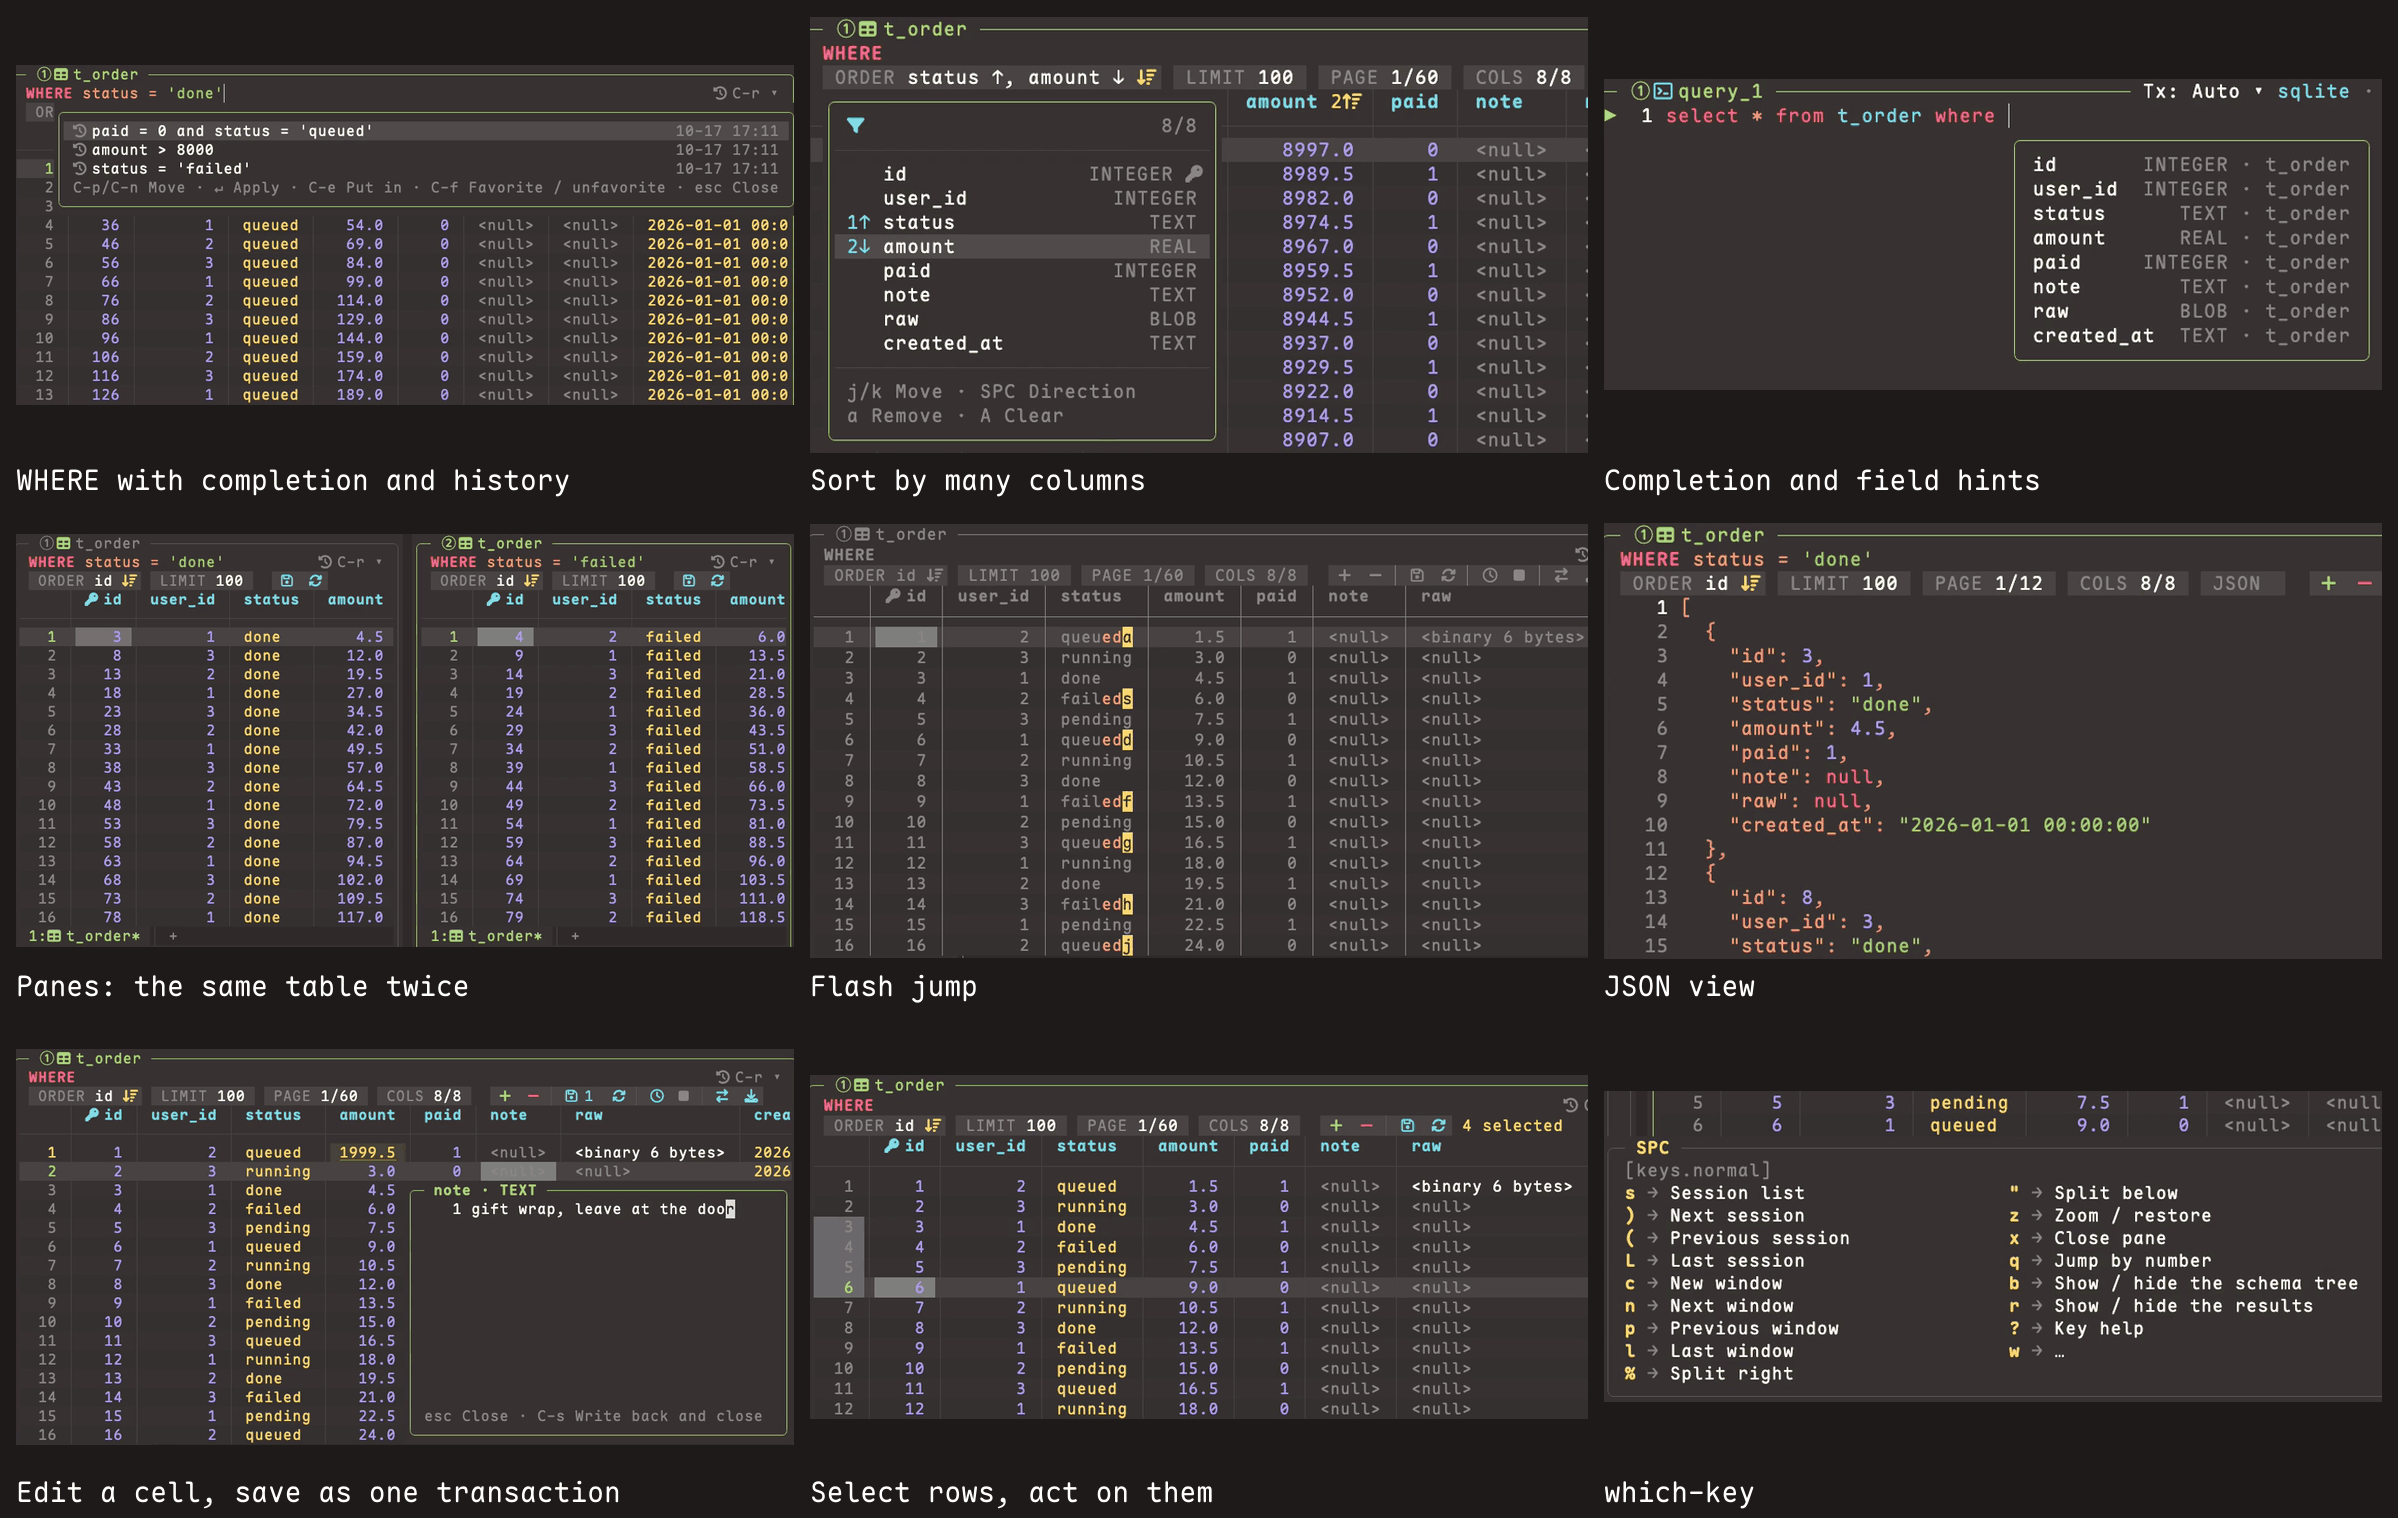
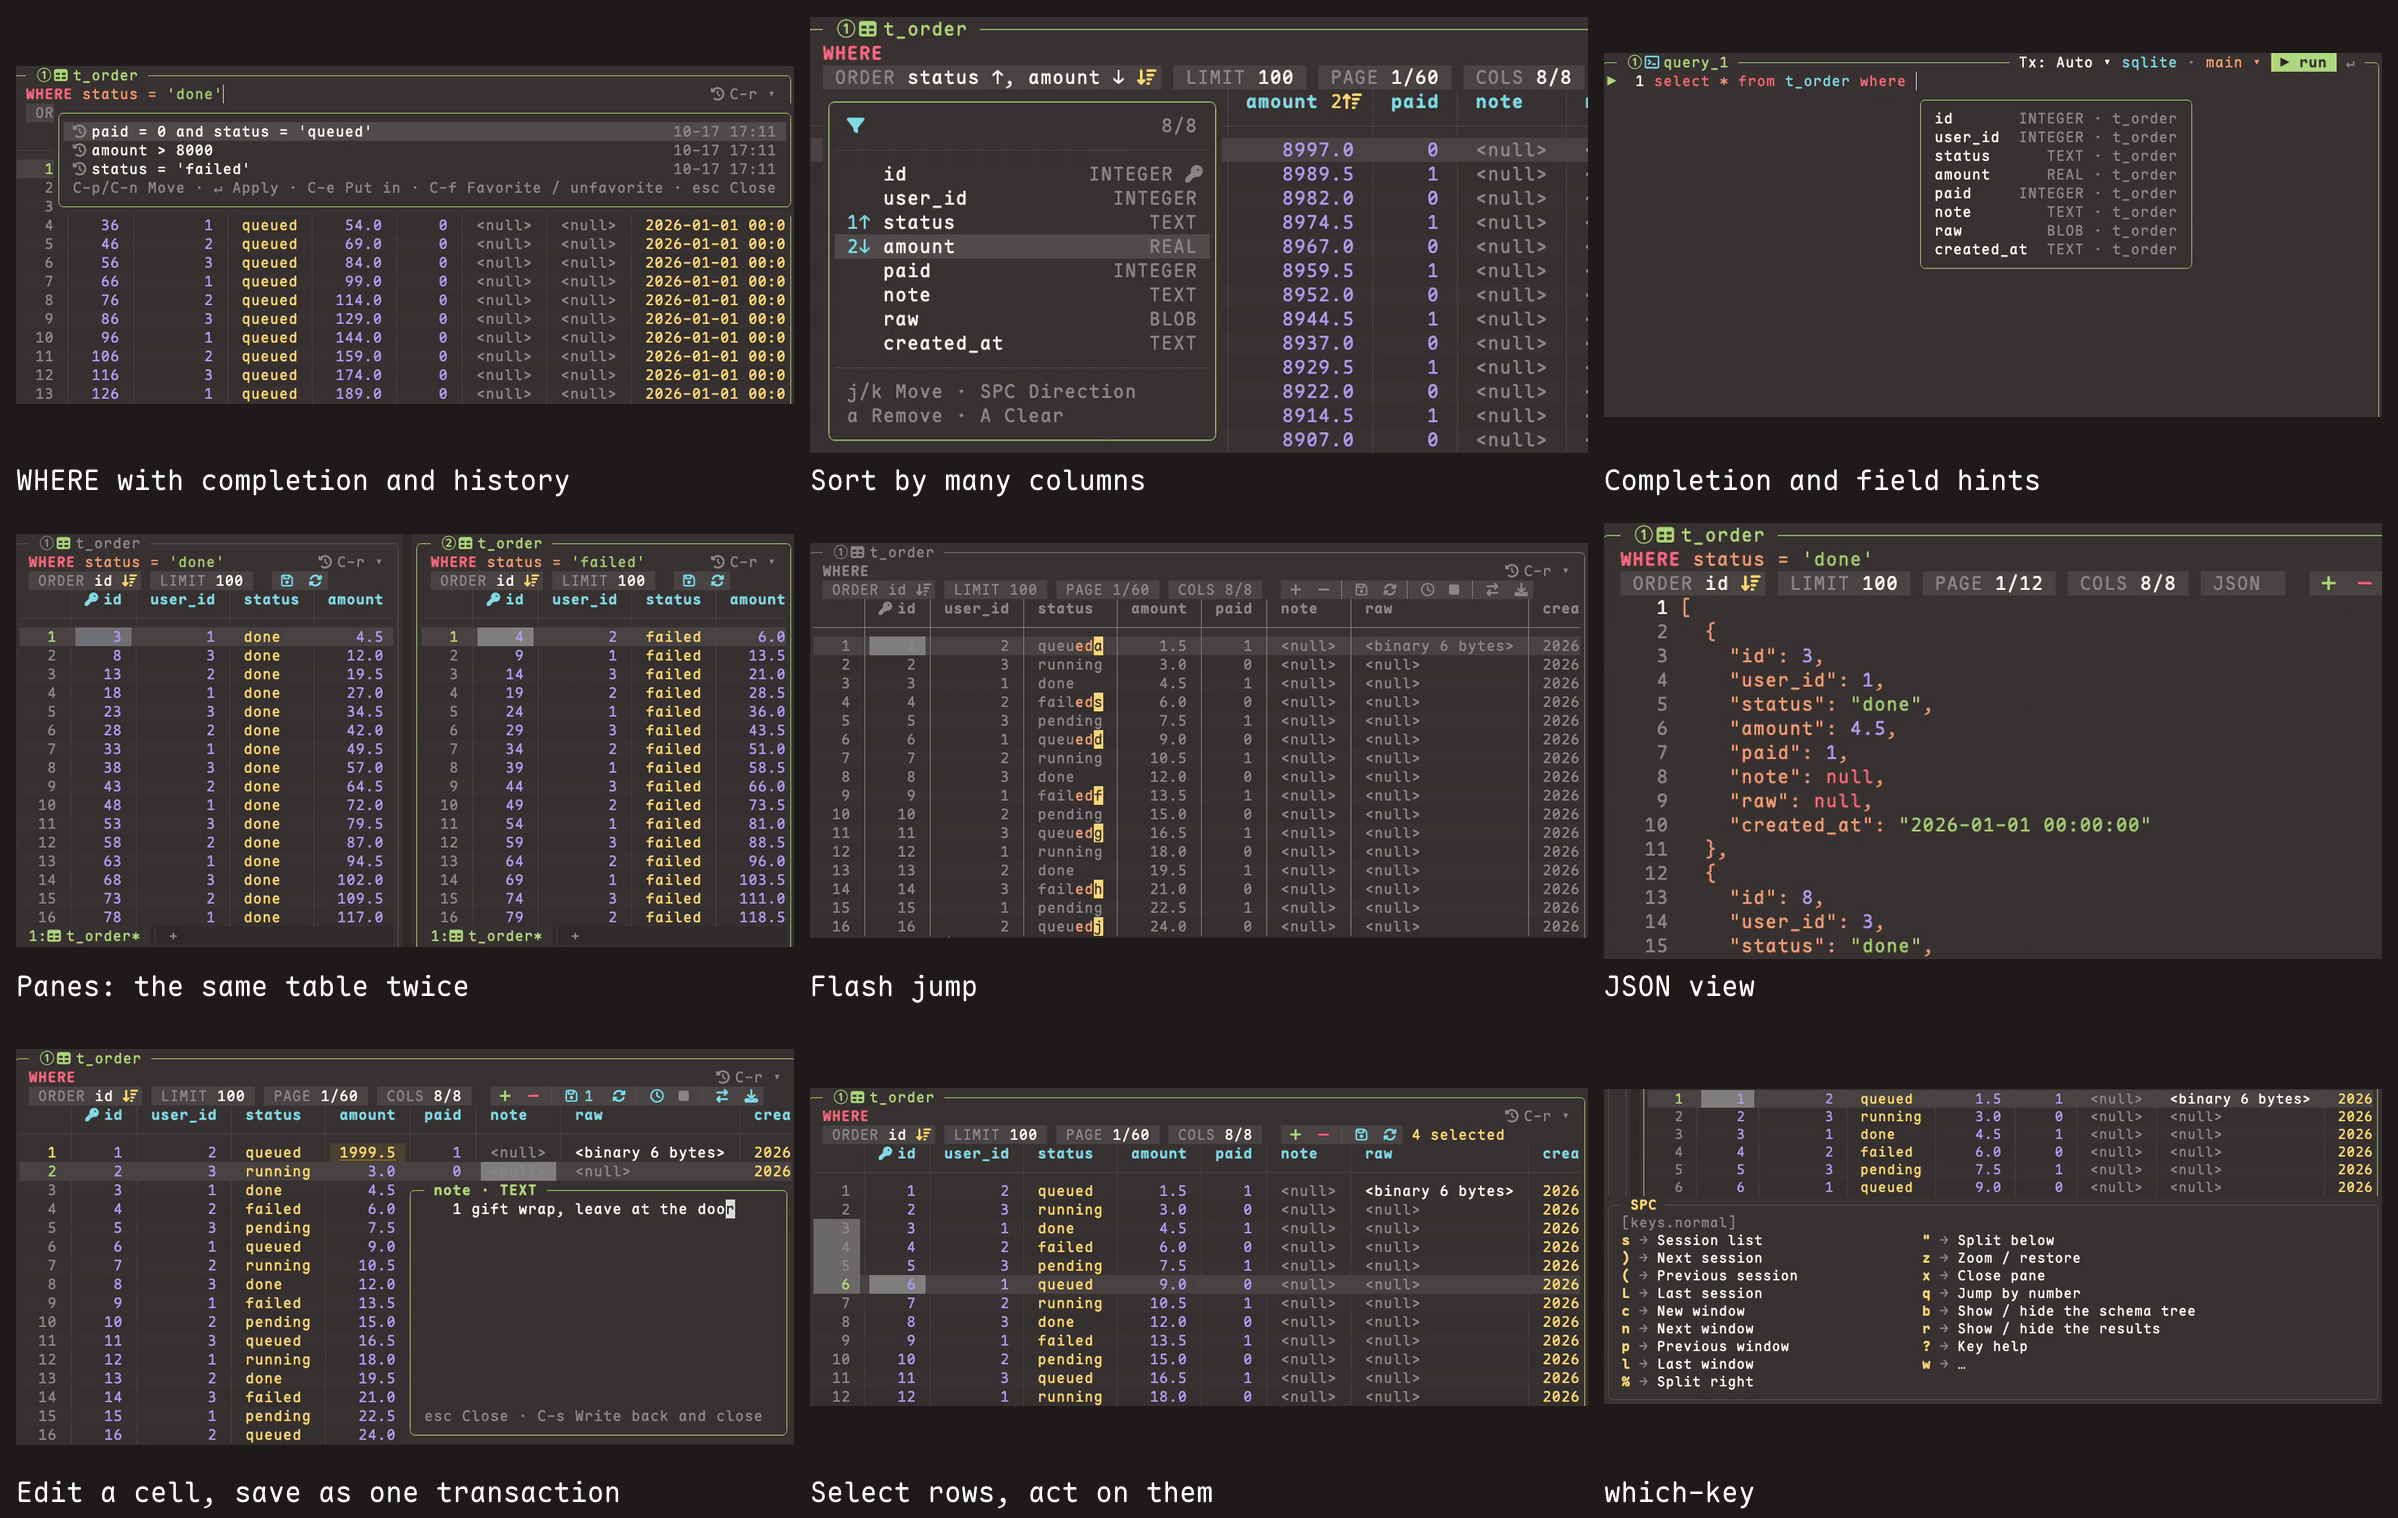
docs: feature collage v3 — no clipped edges, taller crops for the completion and which-key tiles

diff --git a/assets/demo/capture/shots/collage.py b/assets/demo/capture/shots/collage.py
@@ -5,15 +5,15 @@ import base64, os, subprocess, tempfile
 from xml.sax.saxutils import escape
 
 TILES = [  # grid order: (tape name, caption, crop w:h:x:y in the 1200x676 frame, picked by hand around the feature)
-    ("where", "WHERE with completion and history", "1104:482:78:16"),
+    ("where", "WHERE with completion and history", "1108:482:78:16"),
     ("order", "Sort by many columns", "860:483:78:16"),
-    ("complete", "Completion and field hints", "850:340:78:16"),
+    ("complete", "Completion and field hints", "1112:520:74:16"),
     ("panes", "Panes: the same table twice", "1112:590:74:16"),
-    ("flash", "Flash jump", "1010:564:74:16"),
+    ("flash", "Flash jump", "1112:564:74:16"),
     ("json", "JSON view", "860:483:74:16"),
     ("edit", "Edit a cell, save as one transaction", "1104:562:74:16"),
-    ("select", "Select rows, act on them", "1026:454:74:16"),
-    ("whichkey", "which-key", "920:368:14:256"),
+    ("select", "Select rows, act on them", "1112:454:74:16"),
+    ("whichkey", "which-key", "1176:476:12:148"),
 ]
 W, H, GAP, CAP = 778, 438, 16, 52  # tile box (16:9), gutter, caption band
 OUT = "../../features.png"
